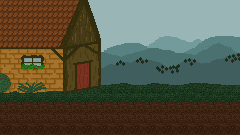
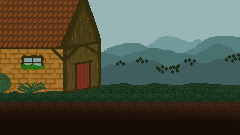
new background

Changed region(s): [[0.0, 0.8, 1.0, 1.0]]

diff --git a/src/Entity/Player.java b/src/Entity/Player.java
@@ -139,7 +139,6 @@ public class Player extends Creature {
 
         if (game.getKeyHandler().e) {
             collectItem();
-            System.out.println("schwurbelSCHWURBEL");
         }
     }
 
